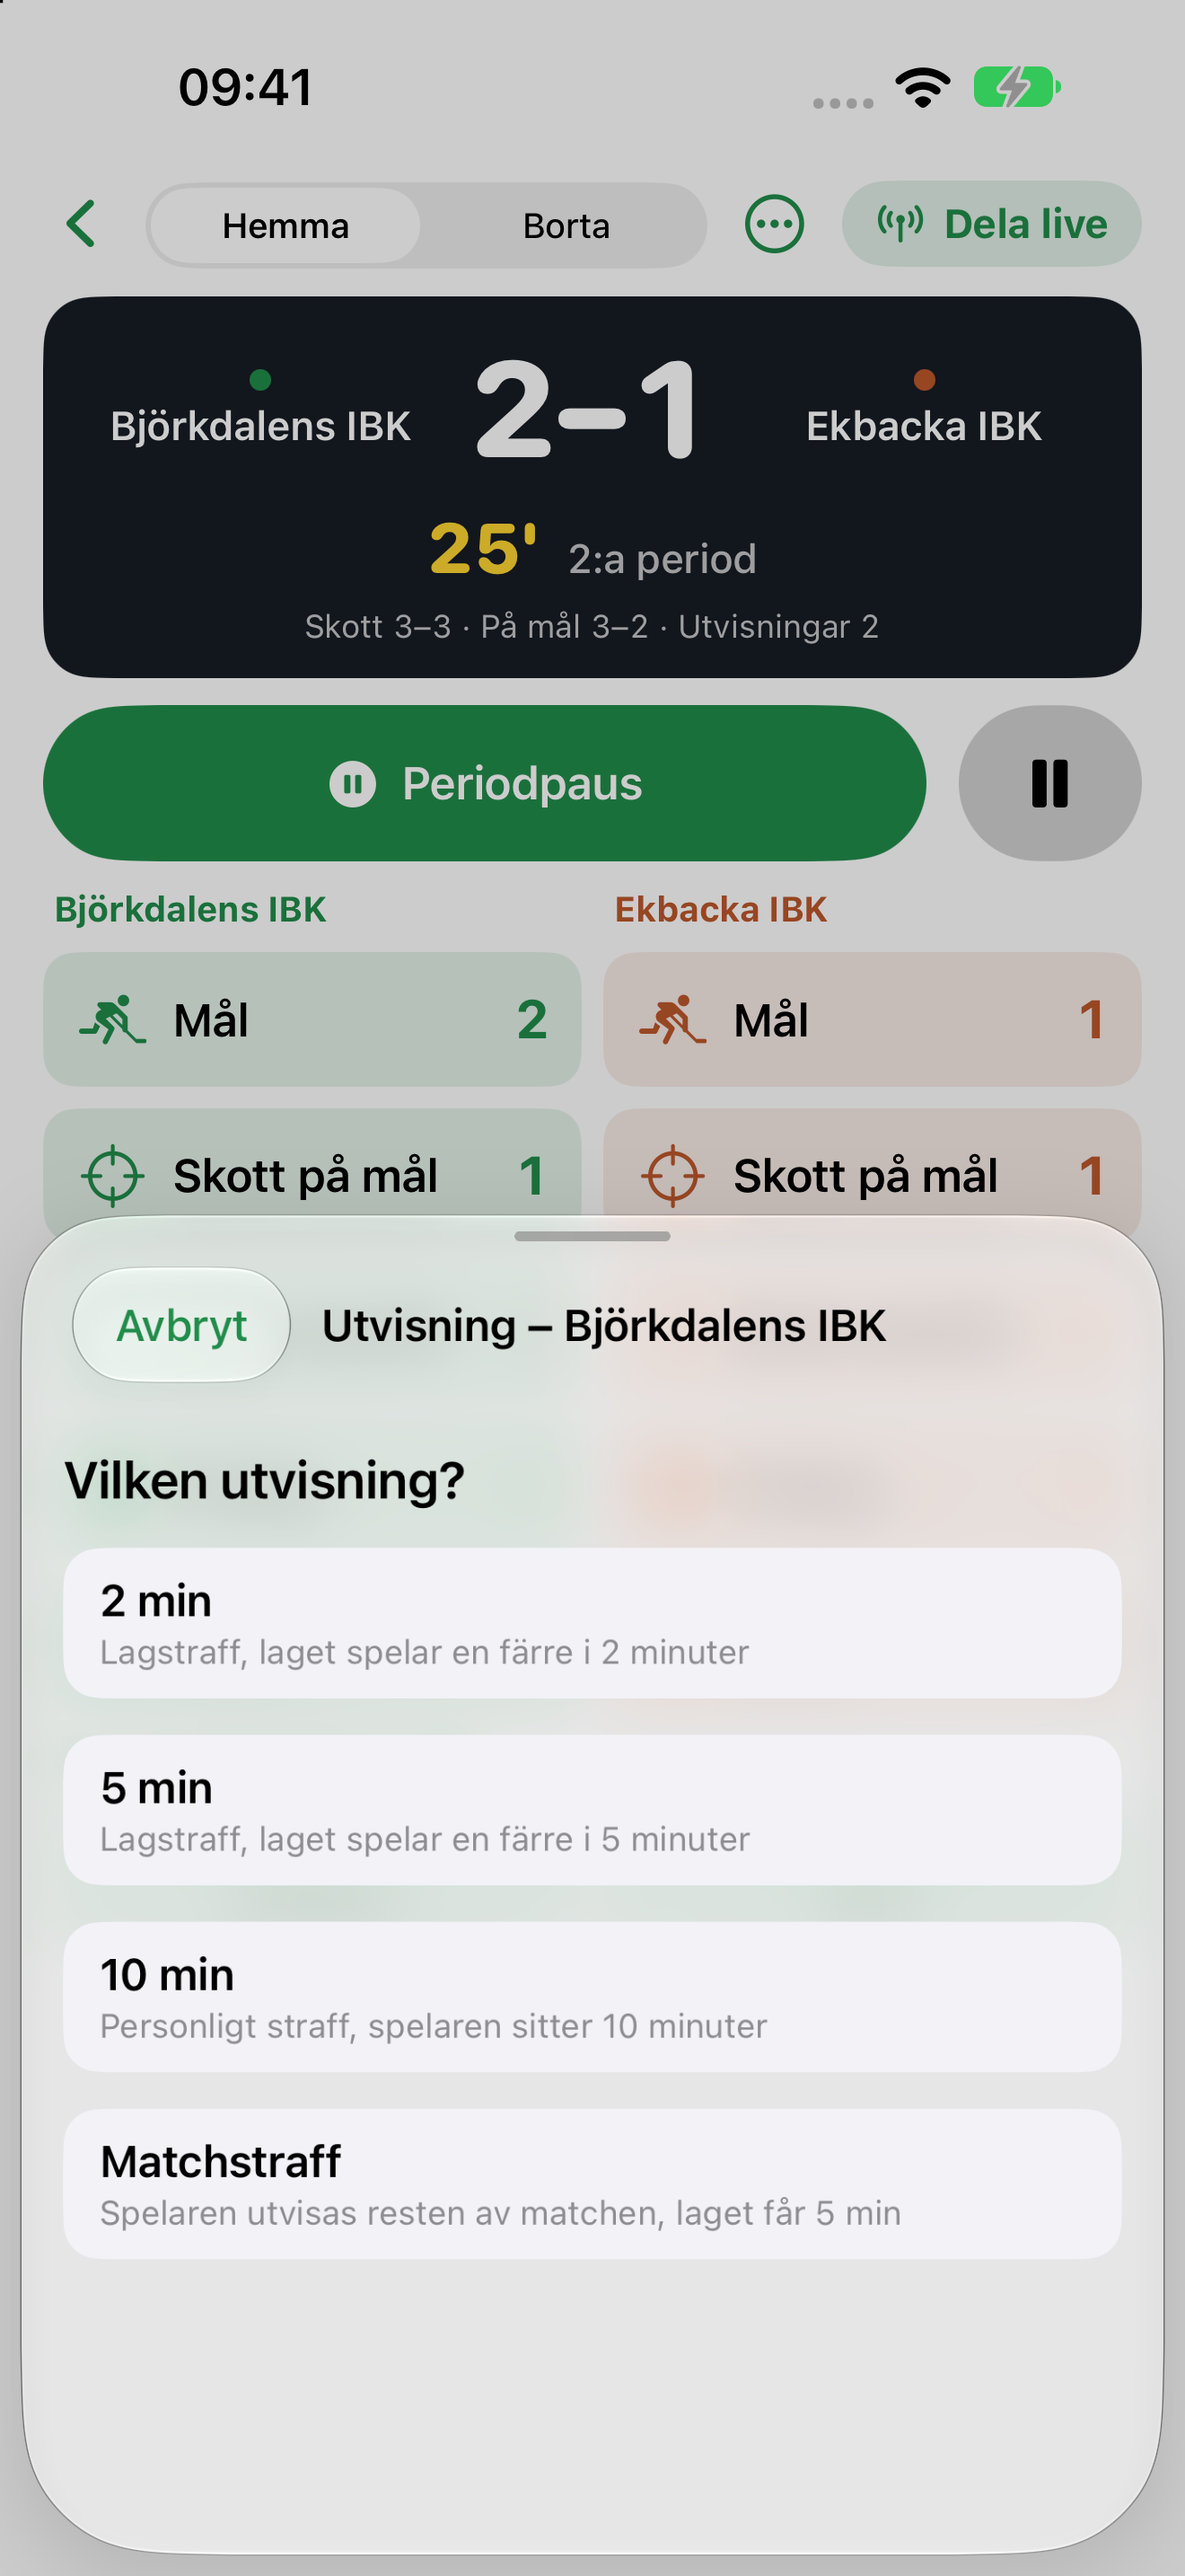
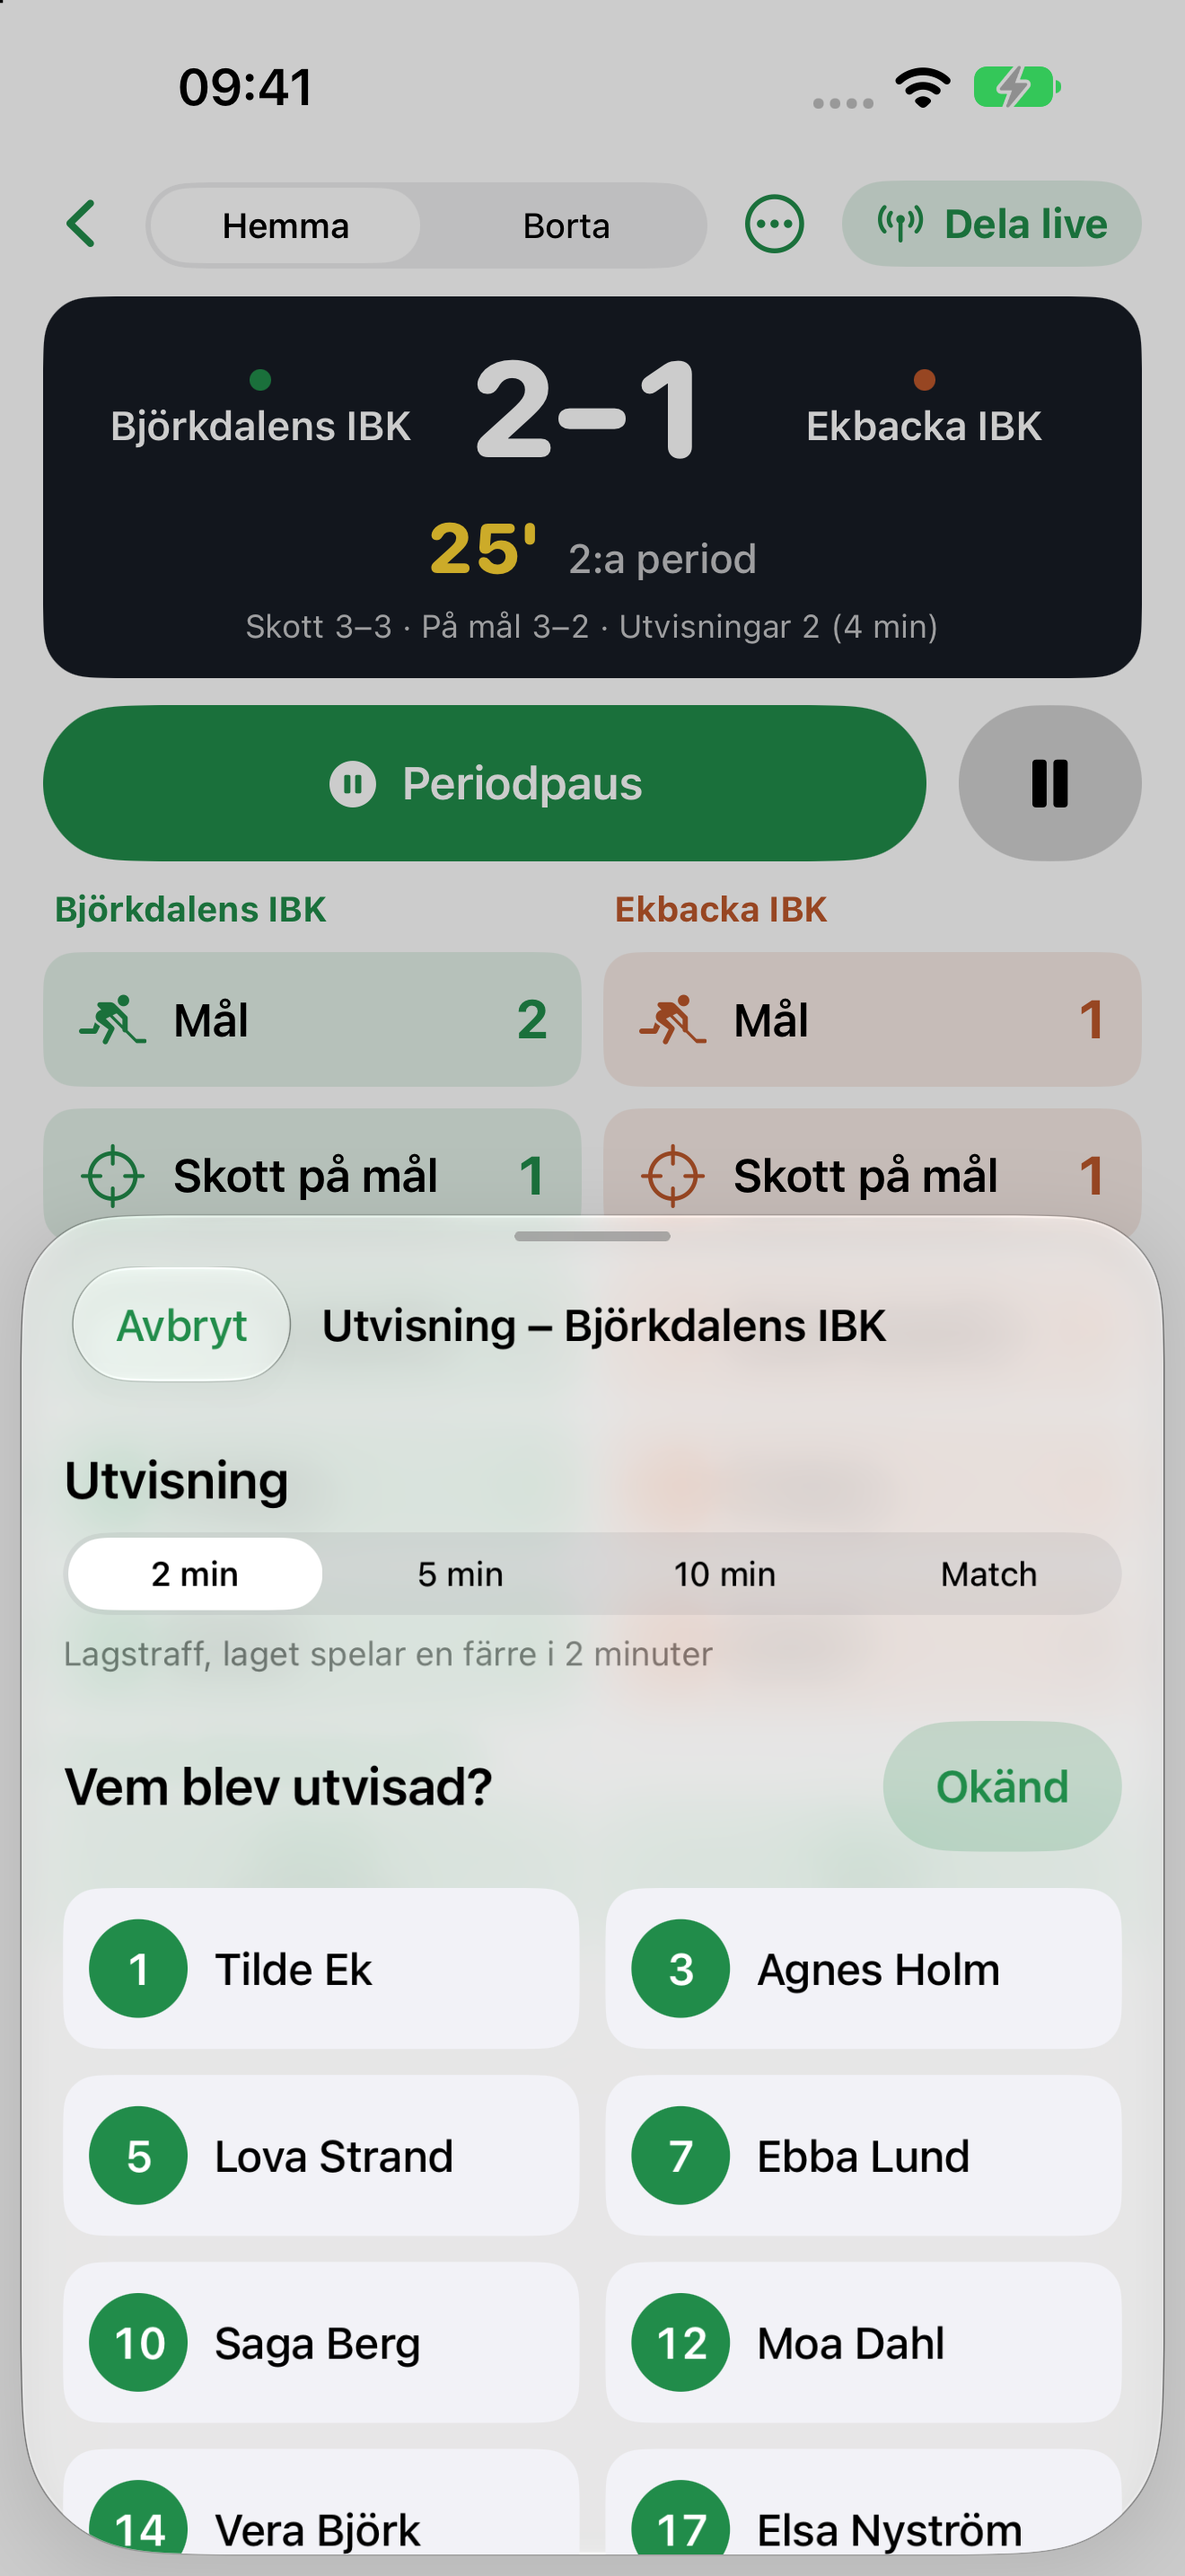
Utvisning med förvalda 2 min, antal och minuter i sammanställningen, innebandy 3 × 20
Utvisning väljs på samma sida som spelaren (2 min förvalt). Statistikraden och
referatet visar t.ex. Utvisningar 2 (4 min). Nya innebandylag får 5 mot 5 och
3 × 20 min. App Store-texter: undertitel, nyckelord och beskrivning med innebandy.

diff --git a/Sources/Models.swift b/Sources/Models.swift
@@ -116,11 +116,11 @@ struct Team: Identifiable, Equatable, Hashable {
     var periodLength: Int = 25
     var players: [Player] = []
 
-    /// A new team with the usual settings for its sport: 9 mot 9, 2 × 25 in football; 5 mot 5, 3 × 15 in floorball.
+    /// A new team with the usual settings for its sport: 9 mot 9, 2 × 25 in football; 5 mot 5, 3 × 20 in floorball.
     static func new(_ sport: Sport, name: String = "Nytt lag") -> Team {
         switch sport {
         case .football: Team(name: name, sport: .football)
-        case .floorball: Team(name: name, sport: .floorball, playersOnField: 5, periods: 3, periodLength: 15)
+        case .floorball: Team(name: name, sport: .floorball, playersOnField: 5, periods: 3, periodLength: 20)
         }
     }
 
@@ -133,7 +133,7 @@ struct Team: Identifiable, Equatable, Hashable {
     static func formatLabel(_ playersOnField: Int) -> String { "\(playersOnField) mot \(playersOnField)" }
 
     static func defaultPeriodLength(for playersOnField: Int, sport: Sport = .football) -> Int {
-        if sport == .floorball { return playersOnField >= 5 ? 15 : 12 }
+        if sport == .floorball { return playersOnField >= 5 ? 20 : 15 }
         switch playersOnField {
         case ...5: return 15
         case 6...7: return 20
@@ -248,6 +248,18 @@ enum Suspension: String, Codable, CaseIterable, Hashable, Identifiable {
         case .match: "Spelaren utvisas resten av matchen, laget får 5 min"
         }
     }
+
+    /// Utvisningsminuter in the summary. A match penalty counts as the team's five minutes.
+    var minutes: Int {
+        switch self {
+        case .two: 2
+        case .five, .match: 5
+        case .ten: 10
+        }
+    }
+
+    /// Short label for the segmented picker.
+    var shortLabel: String { self == .match ? "Match" : label }
 
     /// Minutes the team plays short-handed: a match penalty also costs the team five minutes.
     var teamMinutes: Int {
@@ -445,6 +457,14 @@ extension MatchState {
         events.filter { $0.kind == .suspension && $0.side == .us && (kind == nil || $0.suspension == kind) }.count
     }
 
+    /// Utvisningsminuter for our team; utvisningar without a kind (none so far) count as 2 minutes.
+    var suspensionMinutes: Int {
+        events.filter { $0.kind == .suspension && $0.side == .us }.reduce(0) { $0 + ($1.suspension ?? .two).minutes }
+    }
+
+    /// "Utvisningar 2 (4 min)".
+    var suspensionsText: String { "Utvisningar \(suspensions()) (\(suspensionMinutes) min)" }
+
     var scoreText: String { "\(goals(homeSide))–\(goals(awaySide))" }
 
     var statsLine: String {
@@ -453,7 +473,7 @@ extension MatchState {
         case .football:
             return shotsText + " · Hörnor \(count(.corner, homeSide))–\(count(.corner, awaySide))"
         case .floorball:
-            return shotsText + " · Utvisningar \(suspensions())"
+            return shotsText + " · " + suspensionsText
         }
     }
 

diff --git a/Sources/FlowSheet.swift b/Sources/FlowSheet.swift
@@ -7,7 +7,8 @@ struct FlowSheet: View {
 
     @State private var step = 0
     @State private var firstPlayer: UUID?
-    @State private var suspension: Suspension?
+    /// 2 min unless another kind is chosen.
+    @State private var suspension: Suspension = .two
 
     var body: some View {
         NavigationStack {
@@ -82,12 +83,8 @@ struct FlowSheet: View {
                 }
             }
         case .suspension:
-            if step == 0 {
-                SuspensionPicker { kind in
-                    suspension = kind
-                    step = 1
-                }
-            } else {
+            VStack(alignment: .leading, spacing: 18) {
+                SuspensionPicker(selection: $suspension)
                 PlayerPicker(prompt: "Vem blev utvisad?", players: state.playingToday, skip: "Okänd") { id in
                     finish(.suspension, .us, player: id, suspension: suspension)
                 }
@@ -134,28 +131,20 @@ struct PenaltyResultPicker: View {
     }
 }
 
-/// 2 min, 5 min, 10 min or Matchstraff for a floorball utvisning.
+/// 2 min (preselected), 5 min, 10 min or Matchstraff for a floorball utvisning.
 struct SuspensionPicker: View {
-    let pick: (Suspension) -> Void
+    @Binding var selection: Suspension
 
     var body: some View {
-        VStack(alignment: .leading, spacing: 14) {
-            Text("Vilken utvisning?").font(.title3.bold())
-            ForEach(Suspension.allCases) { kind in
-                Button { pick(kind) } label: {
-                    VStack(alignment: .leading, spacing: 2) {
-                        Text(kind.label).font(.headline).foregroundStyle(.primary)
-                        Text(kind.detail).font(.footnote).foregroundStyle(.secondary)
-                    }
-                    .padding(.horizontal, 14)
-                    .padding(.vertical, 10)
-                    .frame(maxWidth: .infinity, minHeight: 56, alignment: .leading)
-                    .background(Color(.secondarySystemBackground), in: RoundedRectangle(cornerRadius: 14))
-                    .contentShape(RoundedRectangle(cornerRadius: 14))
-                }
-                .buttonStyle(.plain)
-                .accessibilityLabel("\(kind.label). \(kind.detail)")
+        VStack(alignment: .leading, spacing: 8) {
+            Text("Utvisning").font(.title3.bold())
+            Picker("Utvisning", selection: $selection) {
+                ForEach(Suspension.allCases) { Text($0.shortLabel).tag($0) }
             }
+            .pickerStyle(.segmented)
+            Text(selection.detail)
+                .font(.footnote)
+                .foregroundStyle(.secondary)
         }
     }
 }

diff --git a/UnitTests/SportTests.swift b/UnitTests/SportTests.swift
@@ -31,7 +31,7 @@ struct FloorballTests {
         let team = Team.new(.floorball)
         #expect(team.sport == .floorball)
         #expect(team.periods == 3)
-        #expect(team.periodLength == 15)
+        #expect(team.periodLength == 20)
         #expect(team.playersOnField == 5)
         #expect(Sport.floorball.periodRange == 2...3)
     }
@@ -86,7 +86,7 @@ struct FloorballTests {
         #expect(match.shots(.us) == 3)
         #expect(match.shotsOnTarget(.them) == 2)
         #expect(match.suspensions() == 2)
-        #expect(match.statsLine == "Skott 3–3 · På mål 3–2 · Utvisningar 2")
+        #expect(match.statsLine == "Skott 3–3 · På mål 3–2 · Utvisningar 2 (4 min)")
         #expect(match.statsLine.count <= 120)   // the Firestore rules allow 120 characters
     }
 
@@ -105,6 +105,10 @@ struct FloorballTests {
         #expect(store.state.describe(five) == "Utvisning 5 min – Saga Berg")
         #expect(store.state.report(at: .now).contains("⛔ \(event.minute.text) Saga (10), Matchstraff"))
         #expect(!store.state.report(at: .now).contains("Berg"))
+        #expect(store.state.suspensionMinutes == 4 + 5 + 5)
+        #expect(store.state.statsLine.hasSuffix("Utvisningar 4 (14 min)"))
+        #expect(store.state.report(at: .now).contains("Utvisningar 4 (14 min)"))
+        #expect(Suspension.ten.minutes == 10)
         #expect(Suspension.two.teamMinutes == 2 && Suspension.ten.teamMinutes == 0 && Suspension.match.teamMinutes == 5)
     }
 

diff --git a/Sources/Previews.swift b/Sources/Previews.swift
@@ -76,7 +76,10 @@ private extension View {
 #Preview("Straff – motståndare") { FlowSheet(flow: .penalty(.them)).previewEnvironment() }
 #Preview("Utvisning") { FlowSheet(flow: .suspension).previewEnvironment(PreviewData.floorballStore()) }
 #Preview("Straffresultat") { PenaltyResultPicker { _ in }.padding() }
-#Preview("Utvisningstyp") { SuspensionPicker { _ in }.padding() }
+#Preview("Utvisningstyp") {
+    @Previewable @State var kind = Suspension.two
+    SuspensionPicker(selection: $kind).padding()
+}
 #Preview("Resultattavla") { ScoreboardView().padding().previewEnvironment() }
 #Preview("Resultattavla – stor text") {
     ScoreboardView().padding().previewEnvironment().environment(\.dynamicTypeSize, .accessibility2)

diff --git a/public/index.html b/public/index.html
@@ -273,7 +273,7 @@
         return {
           sport: "floorball", homeName: "Ditt lag", awayName: "Ekbacka IBK", isHome: true, homeScore: 2, awayScore: 1,
           phase: "playing", period: 2, periods: 3, running: true, startedAt: now - 560000, accumulated: 0, halfLength: 15,
-          periodText: "2:a period", stats: "Skott 3–3 · På mål 3–2 · Utvisningar 2",
+          periodText: "2:a period", stats: "Skott 3–3 · På mål 3–2 · Utvisningar 2 (4 min)",
           updatedAt: now - 20000, expireAt: now + 7 * 864e5,
           events: [
             ev("1'", "period", "us", "Avspark", "Match"),
